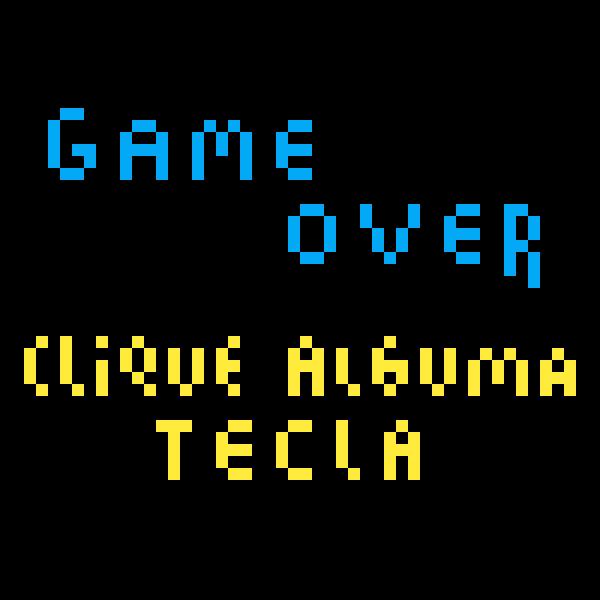
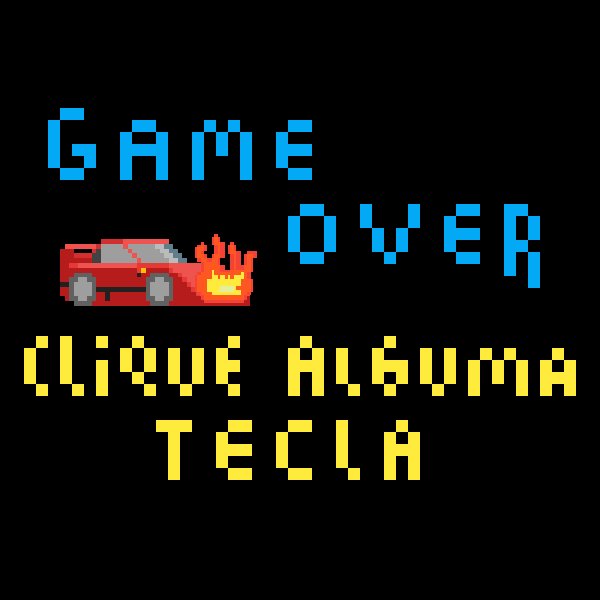
tela final

Changed region(s): [[0.09, 0.39, 0.45, 0.51]]

diff --git a/Projeto_Final_DesSoft/carro c mexeno.py b/Projeto_Final_DesSoft/carro c mexeno.py
@@ -376,7 +376,7 @@ while GAME:
         hits = pygame.sprite.spritecollide(jogadô, carros, True)
         
         if len(hits)>0:
-            tela_final = pygame.image.load('assets/Images/tela_final(transparente).png').convert()
+            tela_final = pygame.image.load('assets/Images/tela_final.png').convert()
             batida_sound.play()
             end = True
             GAME = False
